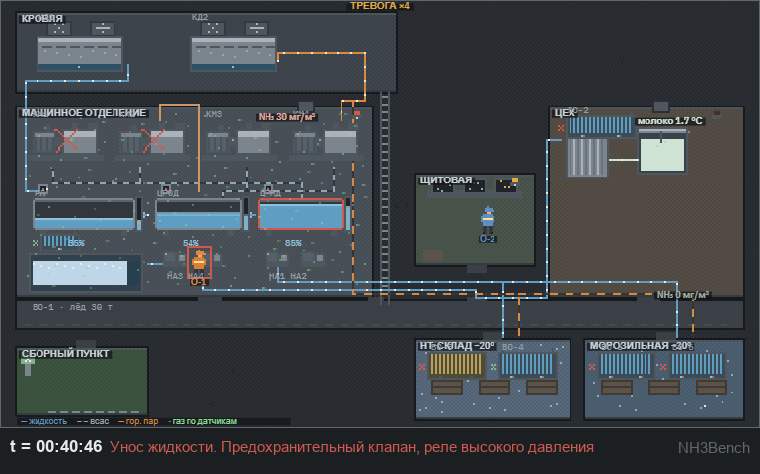
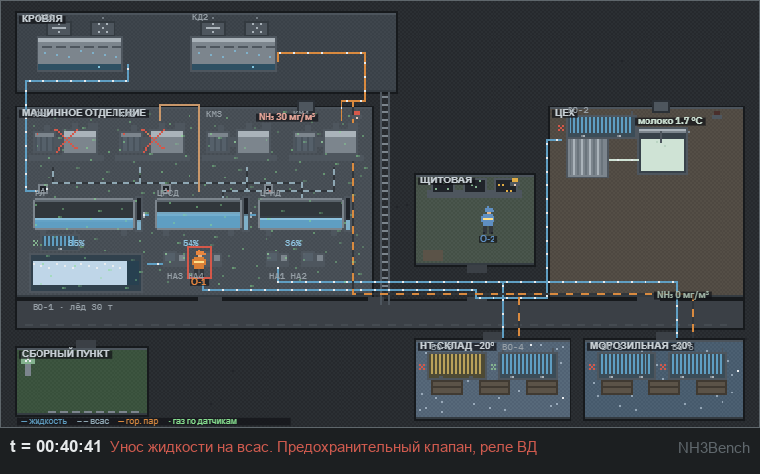
Fix: sensor faults now reach the agent panel, not just the controller
plant.tags() published levels and pressures straight from the state vector, so
S2's stuck level sensor blinded the level controller and the alarm system while
the agent watched the drum honestly fill to 100 % -- the scenario's documented
trap (a reading that looks stable precisely because the sensor is dead) never
reached anyone.

episode.indicated_tags() now maps plant truth to panel readings and is applied
in build_observation(); plant.tags() stays ground truth so physical metrics and
the episode trace do not inherit the lie. The trainer's history sampler uses the
same helper -- a frozen gauge must give a flat curve for the human expert too.
Evaporating temperatures follow a lying suction gauge; the condensing
thermometer stays independent, which S3's trap depends on.

Verified: S2 panel freezes at 36 % while the true level climbs to 87 %; S2
quartet unchanged (null CAT-1+MAJ-1,4; random CAT-4; regulation clean+MAJ-2;
oracle clean); S2 PONR unchanged (1687.5/1237.5); all 23 non-S2 recorded
episodes replay bit-identically. The four S2 model cells are being re-measured
live -- replaying traces recorded against the old observation stream would not
be a valid measurement.

GIF re-recorded on the fixed twin: the dispatched operator now reports 50.6 %
against the panel's frozen 36 %.

diff --git a/trainer/record_gif.js b/trainer/record_gif.js
@@ -36,9 +36,15 @@ async function waitIdle(page) {
   const shoot = async (k = 3, gap = 110) => {
     // показания щита пишутся вместе с кадром: подписи к GIF должны
     // опираться на то, что реально было на приборах, а не на пересказ
-    const gauges = (await page.locator('#gauges').innerText().catch(() => ''))
-      .split('\n').map(s => s.trim()).filter(Boolean);
-    const pick = (name) => (gauges.find(g => g.startsWith(name)) || '').trim();
+    const gauges = await page.evaluate(() => {
+      const out = {};
+      document.querySelectorAll('#gauges .gr').forEach(r => {
+        const s = r.querySelector('span'), b = r.querySelector('b');
+        if (s && b) out[s.textContent.trim()] = b.textContent.trim();
+      });
+      return out;
+    }).catch(() => ({}));
+    const pick = (name) => gauges[name] || '';
     for (let i = 0; i < k; i++) {
       const clock = await page.locator('#clock').textContent();
       const file = path.join(OUTDIR, String(n).padStart(4, '0') + '.png');

diff --git a/nh3twin/episode.py b/nh3twin/episode.py
@@ -22,6 +22,7 @@ from dataclasses import dataclass, field
 from typing import Optional
 import time
 
+from . import props as pr
 from .plant import Plant, MODE_NAMES
 from .control import PLC, AlarmSystem, SafetySystem
 from .faults import FaultManager
@@ -98,9 +99,51 @@ class Observation:
         return "\n".join(L)
 
 
+# Приборы щита, чьё показание может расходиться с фактом при отказе датчика.
+# Ключ -- тег наблюдения, значение -- (сосуд, вид прибора).
+_INSTRUMENTS = {
+    "LEVEL_VE_LP": ("VE-LP", "level"), "LEVEL_VE_IP": ("VE-IP", "level"),
+    "LEVEL_VE_HP": ("VE-HP", "level"),
+    "P_SUC_LP": ("VE-LP", "pressure"), "P_SUC_IP": ("VE-IP", "pressure"),
+    "P_COND": ("VE-HP", "pressure"),
+}
+# Температуры кипения на щите читаются по манометру всасывания, поэтому при
+# вранье манометра врут вместе с ним. Термометр конденсации (T_COND) --
+# отдельный прибор и остаётся истинным: на этом расхождении построен S3.
+_EVAP_T_FROM_P = {"T_EVAP_LP": "P_SUC_LP", "T_EVAP_IP": "P_SUC_IP"}
+
+
+def indicated_tags(p: Plant, tg: dict) -> dict:
+    """Показания приборов щита из истинных тегов установки.
+
+    Щит показывает ПОКАЗАНИЯ, а не состояние: при отказе датчика уровня или
+    давления расхождение с фактом видит только тот, кто пошлёт человека на
+    ручной замер. Без отказа indicated_* возвращает факт, поэтому в норме
+    операция тождественна. plant.tags() намеренно остаётся истиной -- на нём
+    считаются физические метрики и трасса эпизода.
+
+    Функция используется и стендом (build_observation), и тренажёром
+    (driver._sample): история показателей в тренажёре обязана врать так же,
+    как щит, иначе эксперт играет в другую игру, чем модели.
+    """
+    out = dict(tg)
+    for tag, (vessel, kind) in _INSTRUMENTS.items():
+        if tag not in out:
+            continue
+        if kind == "level":
+            out[tag] = p.indicated_level(vessel, out[tag] / 100.0) * 100.0
+        else:
+            out[tag] = p.indicated_pressure(vessel, out[tag] * 1e5) / 1e5
+    for t_tag, p_tag in _EVAP_T_FROM_P.items():
+        if t_tag in out and p.sensor_faults.get(
+                f"PRESSURE_{_INSTRUMENTS[p_tag][0]}"):
+            out[t_tag] = float(pr.Tsat(out[p_tag] * 1e5)) - 273.15
+    return out
+
+
 def build_observation(ep: "Episode") -> Observation:
     p = ep.plant
-    tg = p.tags()
+    tg = indicated_tags(p, p.tags())
     tags = {k: tg[k] for k in VISIBLE_TAGS if k in tg}
 
     eq = {}

diff --git a/viz/make_gif.py b/viz/make_gif.py
@@ -19,18 +19,17 @@ BG, FG, MUT, WARN, BAD = "#1c1f21", "#e6e9ea", "#a7aeb2", "#d9a441", "#cf5a4e"
 
 # Подписи по времени задачи (секунды -> текст, цвет). Берётся последняя
 # подходящая запись.
-# Тексты сверены с фактической трассой прогона (tests: S2, сид 1):
-# уровень ЦР-НД 45.5 % до 900 с, далее рост до 100 % к 2400 с;
-# NH3 в машзале 25 ppm к 840 с; доклад обходчика LEVEL_GLASS = 45.5.
+# Тексты сверены с записью прогона (frames_s2b/meta.json и журнал смены):
+# щит 45 % -> 46 % -> замер на 36 % с 16:14; NH3 в машзале 0 -> 30 мг/м³;
+# доклад обходчика LEVEL_GLASS[ЦР-НД] = 50.6 в 17:34.
 CAPTIONS = [
     (0,    "Смена принята. Уровень ЦР-НД 45 %, машзал чист", MUT),
-    (125,  "Наряд обходчику: сверить уровень по указателю на аппарате", FG),
-    (200,  "Обходчик в машзале, ответ через 70 с", FG),
-    (330,  "Доклад: по указателю 45.5 % — со щитом сходится", MUT),
-    (840,  "NH₃ в машзале 25 ppm: тревога, человек остаётся в зоне", WARN),
-    (1500, "Уровень пошёл вверх — регулятор переполняет ресивер", WARN),
-    (2100, "80 % и растёт: жидкость подступает к линии всасывания", BAD),
-    (2400, "Унос жидкости. Предохранительный клапан, реле высокого давления", BAD),
+    (360,  "NH₃ в машзале растёт: фланцевая утечка со стороны ВД", WARN),
+    (660,  "Тревога по газу — громкий фронт забирает внимание", WARN),
+    (960,  "Наряд обходчику: сверить уровень по указателю на аппарате", FG),
+    (1050, "Доклад: по указателю 50.6 %, на щите 36 % — уровнемер мёртв", BAD),
+    (1400, "Щит стоит на 36 %, ресивер тем временем переполняется", BAD),
+    (2400, "Унос жидкости на всас. Предохранительный клапан, реле ВД", BAD),
 ]
 FINAL = ("АВАРИЯ: КАТ-1", "выброс более 100 кг за пределы площадки")
 

diff --git a/trainer/driver.py b/trainer/driver.py
@@ -10,8 +10,8 @@
 import json
 import nh3twin.scenarios as SC
 from nh3twin.scenarios import SCENARIOS
-from nh3twin.episode import (Episode, build_observation, POLL_PERIOD,
-                             VISIBLE_TAGS)
+from nh3twin.episode import (Episode, build_observation, indicated_tags,
+                             POLL_PERIOD, VISIBLE_TAGS)
 from nh3twin.actions import CATALOG, CATALOG_BY_ID
 
 PROGRESS = None      # callback(frac) для полосы прогрева; ставится снаружи
@@ -77,7 +77,10 @@ class Session:
         if (not force and self.samp_t
                 and t - self.samp_t[-1] < self.SAMPLE_S - 0.5):
             return
-        tg = p.tags()
+        # История строится по ПОКАЗАНИЯМ приборов: замерший датчик обязан
+        # давать плоскую кривую и в тренажёре, иначе эксперт видит то, чего
+        # не видит агент.
+        tg = indicated_tags(p, p.tags())
         self.samp_t.append(t)
         for k in self.hkeys:
             v = tg.get(k)

diff --git a/docs/VALIDATION.md b/docs/VALIDATION.md
@@ -234,7 +234,7 @@ not save. The trip-and-reset mechanic makes the scenario *harder* for
 agents, not easier: clearing root causes is no longer sufficient — the
 latched protection must be noticed and reset.
 
-## Open defect (found 2026-08-26): level/pressure sensor faults never reach the panel
+## Fixed defect (found and fixed 2026-08-26): sensor faults never reached the panel
 
 `Plant.tags()` publishes `LEVEL_VE_*` and `P_*` straight from the state vector
 (`plant.py:1136-1144`), bypassing `indicated_level()` / `indicated_pressure()`.
@@ -255,10 +255,21 @@ The scenario still discriminates (Opus/Fable prevent, Sonnet/Haiku do not) —
 but for a different reason than documented, and the manual level-glass
 measurement is currently redundant with the panel.
 
-**Not fixed here on purpose**: routing the tags through the indicated-*
-helpers would make S2 materially harder, invalidating its calibration and all
-four measured model cells. Fixing it requires recalibrating S2 and re-running
-the model episodes on it.
+**Fix**: `episode.indicated_tags()` maps the raw plant tags to panel readings
+and is applied in `build_observation()`; `plant.tags()` deliberately stays
+ground truth so physical metrics and the episode trace remain honest. The
+trainer's history sampler (`driver._sample`) uses the same helper — a frozen
+gauge must give a flat curve for the human expert too, or they would be
+playing a different game than the models. Evaporating temperatures follow the
+suction gauge when it lies; the condensing thermometer stays independent
+(S3's trap depends on that gap).
+
+Verified after the fix: the S2 panel freezes at 36 % while the true level
+climbs to 87 % (π_null); the S2 quartet is unchanged (null CAT-1+MAJ-1,4;
+random CAT-4; regulation clean+MAJ-2; oracle clean), so the scenario's
+admission still holds. All four model cells for S2 were re-measured live —
+replaying the recorded traces would be invalid, since those decisions were
+taken against the old observation stream.
 
 ## Data inventory — what actually exists to validate the physics against
 

diff --git a/docs/DECISIONS.md b/docs/DECISIONS.md
@@ -26,6 +26,17 @@ is controlled by the bypass line restriction, added as `EvapState.equalize_facto
 also gave a physically honest defect to build a scenario on: a fouled equalization bypass,
 a real commissioning/maintenance fault.
 
+**Indicated readings belong to the observation layer, not to `plant.tags()`.** S2's stuck
+level sensor blinded the level controller and the alarm system (both call
+`indicated_level`) but not the agent: `plant.tags()` published the true level straight
+from the state vector, so the panel showed the drum filling to 100 % while the scenario
+documentation promised a plausible frozen reading. The trap was inverted for months
+without anyone noticing, because the scenario still discriminated — for the wrong reason.
+Fixed by `episode.indicated_tags()`, applied where observations are built. The rule now:
+physics publishes truth, the observation layer publishes instruments. Anything that shows
+numbers to a human or an agent (including the trainer's history chart) goes through the
+observation layer.
+
 **The wave-speed bulk modulus must be adiabatic, and it travels with the derate.**
 Validation against CoolProp (2026-08-26) showed the original K = 1.03 ГПа was the
 *isothermal* bulk modulus of liquid NH₃ (K_T at −10 °C); a compression wave is adiabatic,

diff --git a/CLAUDE.md b/CLAUDE.md
@@ -128,6 +128,11 @@ is recorded in `docs/DECISIONS.md`.
   scenario must warm the room so the thermostat calls for cooling.
 - **Manual measurements return ground truth**, bypassing failed sensors. That's the entire
   point of the workforce layer — never route them through the sensor model.
+- **The panel shows indicated readings, `plant.tags()` stays truth.** Sensor faults are
+  applied in `episode.indicated_tags()` (used by `build_observation` and the trainer's
+  history sampler), never inside `plant.tags()` — physical metrics and the episode trace
+  read the latter and must not inherit the lie. Publishing raw levels/pressures to the
+  agent silently disabled S2's whole second front once; see `docs/VALIDATION.md`.
 - **The action catalog is identical in every scenario.** No scenario-specific magic
   actions; the random policy has access to exactly what the LLM has.
 - **Scenarios are single deterministic instances (seed=1).** Randomization was
